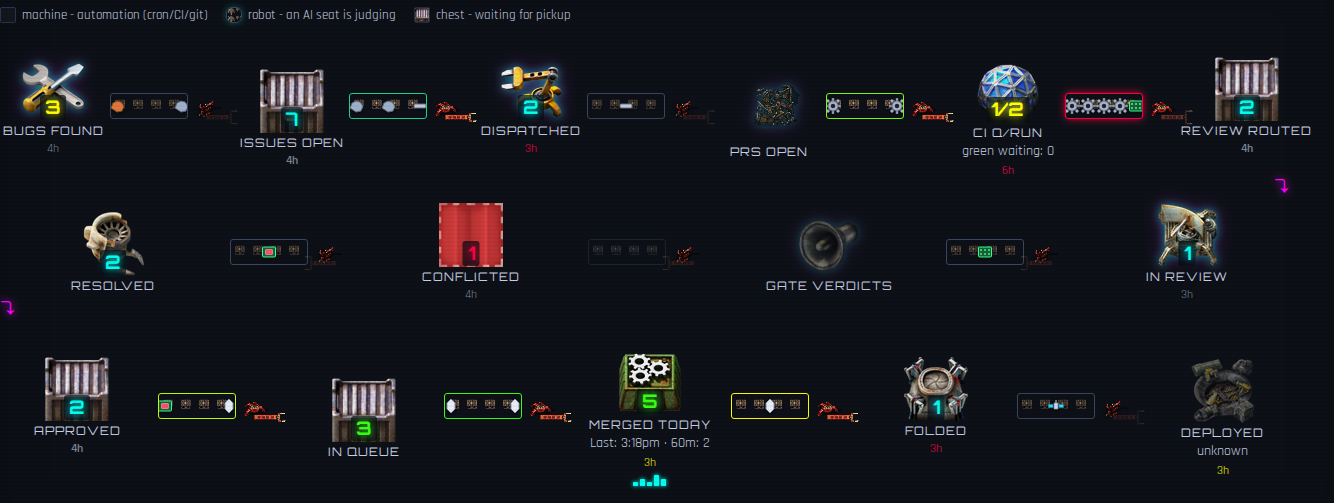
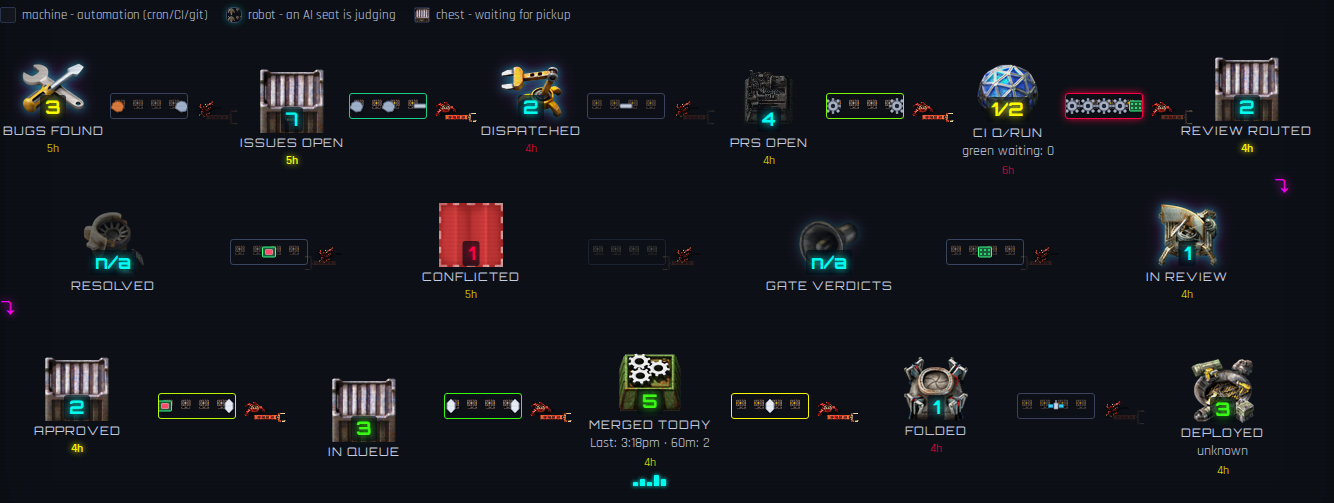
fix(monitor): Round 3 - GATE VERDICTS renders n/a, not empty
Elrond's review of PR #35 found one blocker: GATE VERDICTS rendered
NO number at all (Round 2's fix removed the '?' glyph but left the
stage genuinely empty), while RESOLVED correctly rendered 'n/a' in the
same screenshot. Both fields have carried the identical "no instrument
for this, ever" status since PR #34 dropped statusCheckRollup -
gate_verdicts just never got resolved's null-to-'n/a' conversion at
its shipStage() call site.

Fixed by mirroring resolved's exact pattern: same 'n/a' text, same
muted/dim treatment (shipStage's existing `unknown` flag already
covers 'n/a'), same _na_reason tooltip suffix. Exactly one call site
changed - the other four Round 2 defects are untouched, per the
review's "do not change anything else".

tests/dashboard-truth/factorio-belts-evidence.py grows one assertion:
every one of the 15 stages renders a number or an explicit 'n/a', never
nothing. Mutation-tested per the review's ask - reverted the fix, the
assertion failed by name (AssertionError: stage "gate verdicts"
rendered no number and no n/a), then restored.

The pre-existing no-data/remnant-wreckage demo (state-no-data.png)
moved to its own fixture (pipeline_fixture_no_data): a transient
per-refresh instrument miss is a real, different condition from
gate_verdicts/resolved's permanent n/a, and still legitimately renders
no number - keeping it in the main fixture would have made it collide
with the new blanket assertion.
[…]

diff --git a/tests/dashboard-truth/factorio-belts-evidence.py b/tests/dashboard-truth/factorio-belts-evidence.py
@@ -18,20 +18,25 @@ OUT.mkdir(parents=True, exist_ok=True)
 
 # A fully-populated 15-stage payload, with one deliberately measured-zero/
 # backlogged arrow (ci-green -> the bottleneck) so a backed-up belt renders
-# packed and red, and one deliberately no-data square (prs_open=None) so the
-# assembler's remnant wreckage renders instead of a live sprite.
+# packed and red. gate_verdicts and resolved are the two genuinely
+# permanent "no instrument for this, ever" fields (Round 3) - both null,
+# both must render 'n/a'. Every other field is a real, present value: this
+# fixture is what the blanket "no stage ever renders empty" assertion runs
+# against, so it has to reflect a normal, fully-available refresh, not a
+# degraded one.
 pipeline_fixture = dict(
     available=True, degraded=False, repo='armbrain-io/armbrain',
     bugs_found_24h=3, last_issue_created_at='2026-09-11T19:40:00Z',
     issues_open=7,
     dispatched=2, dispatched_last_at='2026-09-11T20:10:00Z',
-    prs_open=None, prs_open_last_at=None,
+    prs_open=4, prs_open_last_at='2026-09-11T20:15:00Z',
     ci_queued=1, ci_running=2, ci_last_run_started_at='2026-09-11T18:00:00Z',
     review_routed=2, review_routed_last_at='2026-09-11T20:05:00Z',
     in_review=1, in_review_last_at='2026-09-11T20:12:00Z',
     gate_verdicts=None, gate_verdicts_last_at=None,
+    gate_verdicts_na_reason='statusCheckRollup removed from the bulk PR query',
     conflicted=1, conflicted_last_at='2026-09-11T19:50:00Z',
-    resolved=2, resolved_na_reason=None,
+    resolved=None, resolved_na_reason='no snapshot history of mergeable-state transitions to detect a resolve event',
     approved=2, approved_last_at='2026-09-11T20:00:00Z',
     queue_depth=3, queue_prs=[], queue_sub='',
     merged_today=5, merged_last_hour=2, merged_spark=[1, 2, 1, 3, 2],
@@ -39,6 +44,7 @@ pipeline_fixture = dict(
     folded=1, folded_last_at='2026-09-11T20:19:00Z',
     deploys_ok_today=1, deploys_in_flight=1,
     last_deploy_sha='b494d7e', last_deploy_at='2026-09-11T20:20:00Z',
+    deployed_prs_today=3, deployed_prs_today_list=[101, 102, 103],
     green_waiting=0, green_waiting_prs=[],
     arrows=[
         {'key': 'issues-prs', 'rate_per_hour': 6, 'backlog': 4, 'drain_hours': 0.7},
@@ -53,6 +59,13 @@ agents_fixture = [
     {'live': True, 'square': 'issues open'},
     {'live': True, 'square': 'dispatched'},
 ]
+# A separate, deliberately-degraded copy - prs_open unavailable this refresh
+# (distinct from gate_verdicts/resolved's permanent n/a) - used only to
+# capture the no-data/remnant-wreckage evidence shot, kept out of the main
+# fixture so it can't collide with the "never empty" assertion above: a
+# transient per-refresh instrument failure is a different, real state from
+# "we structurally never have this number", and both need their own proof.
+pipeline_fixture_no_data = dict(pipeline_fixture, prs_open=None, prs_open_last_at=None)
 
 def stub_routes(page):
     # Network-level route interception, registered BEFORE navigation, so it
@@ -96,8 +109,6 @@ with sync_playwright() as p:
     assert belt_width >= 64, belt_width
     # Round 2 defect 5: row 3 is no longer a lone square.
     assert page.locator('.ship-row-3 .ship-stage').count() == 5
-    # No-data state (prs open) shows real remnant wreckage, not a live sprite.
-    assert page.locator('[data-square="prs open"] .ship-sprite.remnant').count() == 1
 
     # Round 2 (Elrond review, PR #35, defect 1): no stage may ever render a
     # bare '?' - it reads as indistinguishable from the no-data wreckage state
@@ -106,6 +117,19 @@ with sync_playwright() as p:
     # panels render nothing rather than a glyph when a value is unknown.
     strip_text = strip.inner_text()
     assert '?' not in strip_text, strip_text
+
+    # Round 3 (Elrond review, PR #35): every one of the 15 stages renders
+    # either a number or an explicit 'n/a' - never nothing. gate_verdicts
+    # (null since PR #34 dropped statusCheckRollup) was rendering an empty
+    # ship-num, a third state indistinguishable from a rendering bug rather
+    # than the same "I cannot know this" status 'resolved' already shows.
+    stages = page.locator('.ship-stage')
+    assert stages.count() == 15
+    for i in range(stages.count()):
+        stage = stages.nth(i)
+        square = stage.get_attribute('data-square')
+        num_text = stage.locator('.ship-num').inner_text() if stage.locator('.ship-num').count() else ''
+        assert num_text.strip() != '', 'stage "' + square + '" rendered no number and no n/a'
 
     # Round 2 defect 3: the row-turn elbows must sit tucked against their
     # anchor square, not floating - within ~40px of it in both axes.
@@ -118,7 +142,6 @@ with sync_playwright() as p:
     # Three states side by side, proven never to look alike.
     page.locator('[data-square="bugs found"]').screenshot(path=str(OUT / 'state-idle.png'))
     page.locator('[data-square="ci q/run"]').screenshot(path=str(OUT / 'state-stalled.png'))
-    page.locator('[data-square="prs open"]').screenshot(path=str(OUT / 'state-no-data.png'))
 
     # Greyscale fallback - the backed-up belt must still read as packed/dense.
     page.evaluate("document.documentElement.style.filter='grayscale(100%)'")
@@ -126,6 +149,29 @@ with sync_playwright() as p:
     strip.screenshot(path=str(OUT / 'strip-1440-greyscale.png'))
     page.evaluate("document.documentElement.style.filter=''")
 
+    browser.close()
+
+# Separate pass for the no-data/remnant-wreckage state: prs_open unavailable
+# THIS refresh (pipeline_fixture_no_data) is a different, real condition from
+# gate_verdicts/resolved's permanent n/a, and needs its own proof - kept out
+# of the main fixture above so it can't collide with the "never empty"
+# assertion (a transient per-refresh miss legitimately still renders no
+# number, only the sprite's remnant art carries that signal).
+with sync_playwright() as p:
+    browser = p.chromium.launch(headless=True)
+    page = browser.new_page(viewport={'width': 1440, 'height': 900})
+    errors = []
+    page.on('pageerror', lambda e: errors.append(str(e)))
+    page.route('**/api/pipeline*', lambda route: route.fulfill(
+        status=200, content_type='application/json', body=json.dumps(pipeline_fixture_no_data)))
+    page.route('**/api/agents*', lambda route: route.fulfill(
+        status=200, content_type='application/json', body=json.dumps(agents_fixture)))
+    page.goto('http://127.0.0.1:5099/', wait_until='domcontentloaded')
+    page.evaluate('async()=>{await refreshShipFlow();}')
+    page.wait_for_timeout(1000)
+    assert not errors, errors
+    assert page.locator('[data-square="prs open"] .ship-sprite.remnant').count() == 1
+    page.locator('[data-square="prs open"]').screenshot(path=str(OUT / 'state-no-data.png'))
     browser.close()
 
 # Reduced-motion pass, in a fresh context (emulate_media must be set before

diff --git a/queue_router.py b/queue_router.py
@@ -9244,7 +9244,12 @@ function shipFlowHtml(d) {
             // transition either before or after the rebalance): in review was
             // previously row 1's own dead end and never needed one.
             shipStage(d.in_review ?? null, 'in review', '', '', null, HELP.inReview, '', 'in-review', [], null, null, null, null, d.in_review_last_at) + shipArrow('in review', '👁', null, 'PRs currently under human/AI review', null, null, false, String(d.in_review ?? '?'), null, 'left') +
-            shipStage(d.gate_verdicts ?? null, 'gate verdicts', gateCls, '', null, HELP.gateVerdicts, '', 'gate-verdicts', [], null, null, null, null, d.gate_verdicts_last_at) + shipArrow('gate verdicts', '⛨', null, 'PRs with a non-passing gate-verdict check', null, null, false, String(d.gate_verdicts ?? '?'), null, 'left') +
+            // Round 3 (Elrond review, PR #35): gate_verdicts has been null
+            // since PR #34 dropped statusCheckRollup - the same "I cannot
+            // know this" status as 'resolved', so it renders 'n/a' the same
+            // way (was rendering nothing at all - a stage with no number and
+            // no n/a is its own, different, confusing state).
+            shipStage(d.gate_verdicts === null || d.gate_verdicts === undefined ? 'n/a' : d.gate_verdicts, 'gate verdicts', gateCls, '', null, HELP.gateVerdicts + ((d.gate_verdicts === null || d.gate_verdicts === undefined) && d.gate_verdicts_na_reason ? ' (' + d.gate_verdicts_na_reason + ')' : ''), '', 'gate-verdicts', [], null, null, null, null, d.gate_verdicts_last_at) + shipArrow('gate verdicts', '⛨', null, 'PRs with a non-passing gate-verdict check', null, null, false, String(d.gate_verdicts ?? '?'), null, 'left') +
             shipStage(d.conflicted ?? null, 'conflicted', conflictCls, '', null, HELP.conflicted, '', 'conflicted', [], null, null, null, null, d.conflicted_last_at) + shipArrow('conflicted', '⚠', null, 'Open PRs with a merge conflict', null, null, false, String(d.conflicted ?? '?'), null, 'left') +
             // 'resolved' is now row 2's own end - the elbow carries the turn
             // to 'approved' at the start of row 3 (its old decorative arrow

diff --git a/evidence/factorio-belts/README.md b/evidence/factorio-belts/README.md
@@ -28,6 +28,29 @@ against the source PNGs (`static/factorio/roboport.png`,
 sprites per `SHIP_STAGE_META`, not a fallback. They are just inherently
 grey/tan Factorio art at small size; left unchanged.
 
+**Round 3 (Elrond review, PR #35, 1 blocker - fixed):** `GATE VERDICTS` was
+rendering NO number at all (not even `?` after Round 2's fix removed that -
+just nothing), while `RESOLVED` correctly rendered `n/a` in the same
+screenshot. Both fields have carried the identical "no instrument for this,
+ever" status since PR #34 dropped `statusCheckRollup` - `gate_verdicts` just
+never got `resolved`'s null-to-`'n/a'` conversion at its call site. Fixed by
+mirroring `resolved`'s exact pattern (same muted/dim treatment, same
+`_na_reason` tooltip suffix). `strip-1440-full.png` now carries `resolved`
+null too, specifically so both squares' matching `n/a` treatment is provable
+in one screenshot, the same comparison the review made. Only that one call
+site changed in `queue_router.py` - the other four Round 2 defects were
+untouched, per the review's "do not change anything else".
+
+`tests/dashboard-truth/factorio-belts-evidence.py` grows one more assertion:
+every one of the 15 stages renders a number or an explicit `n/a`, never
+nothing. Mutation-tested (reverted the gate_verdicts fix, the assertion
+failed by name - `AssertionError: stage "gate verdicts" rendered no number
+and no n/a` - then restored). The pre-existing no-data/remnant-wreckage
+demo (`state-no-data.png`) moved to its own fixture
+(`pipeline_fixture_no_data`) so a transient per-refresh miss (a real,
+different condition from gate_verdicts/resolved's permanent `n/a`) can still
+legitimately render no number without tripping the new blanket assertion.
+
 - `strip-1440-full.png`: full strip at 1440px against a synthetic fixture with
   one deliberately measured-zero/backlogged arrow (`ci-green`), so a backed-up
   belt is visible alongside normal flowing ones.
